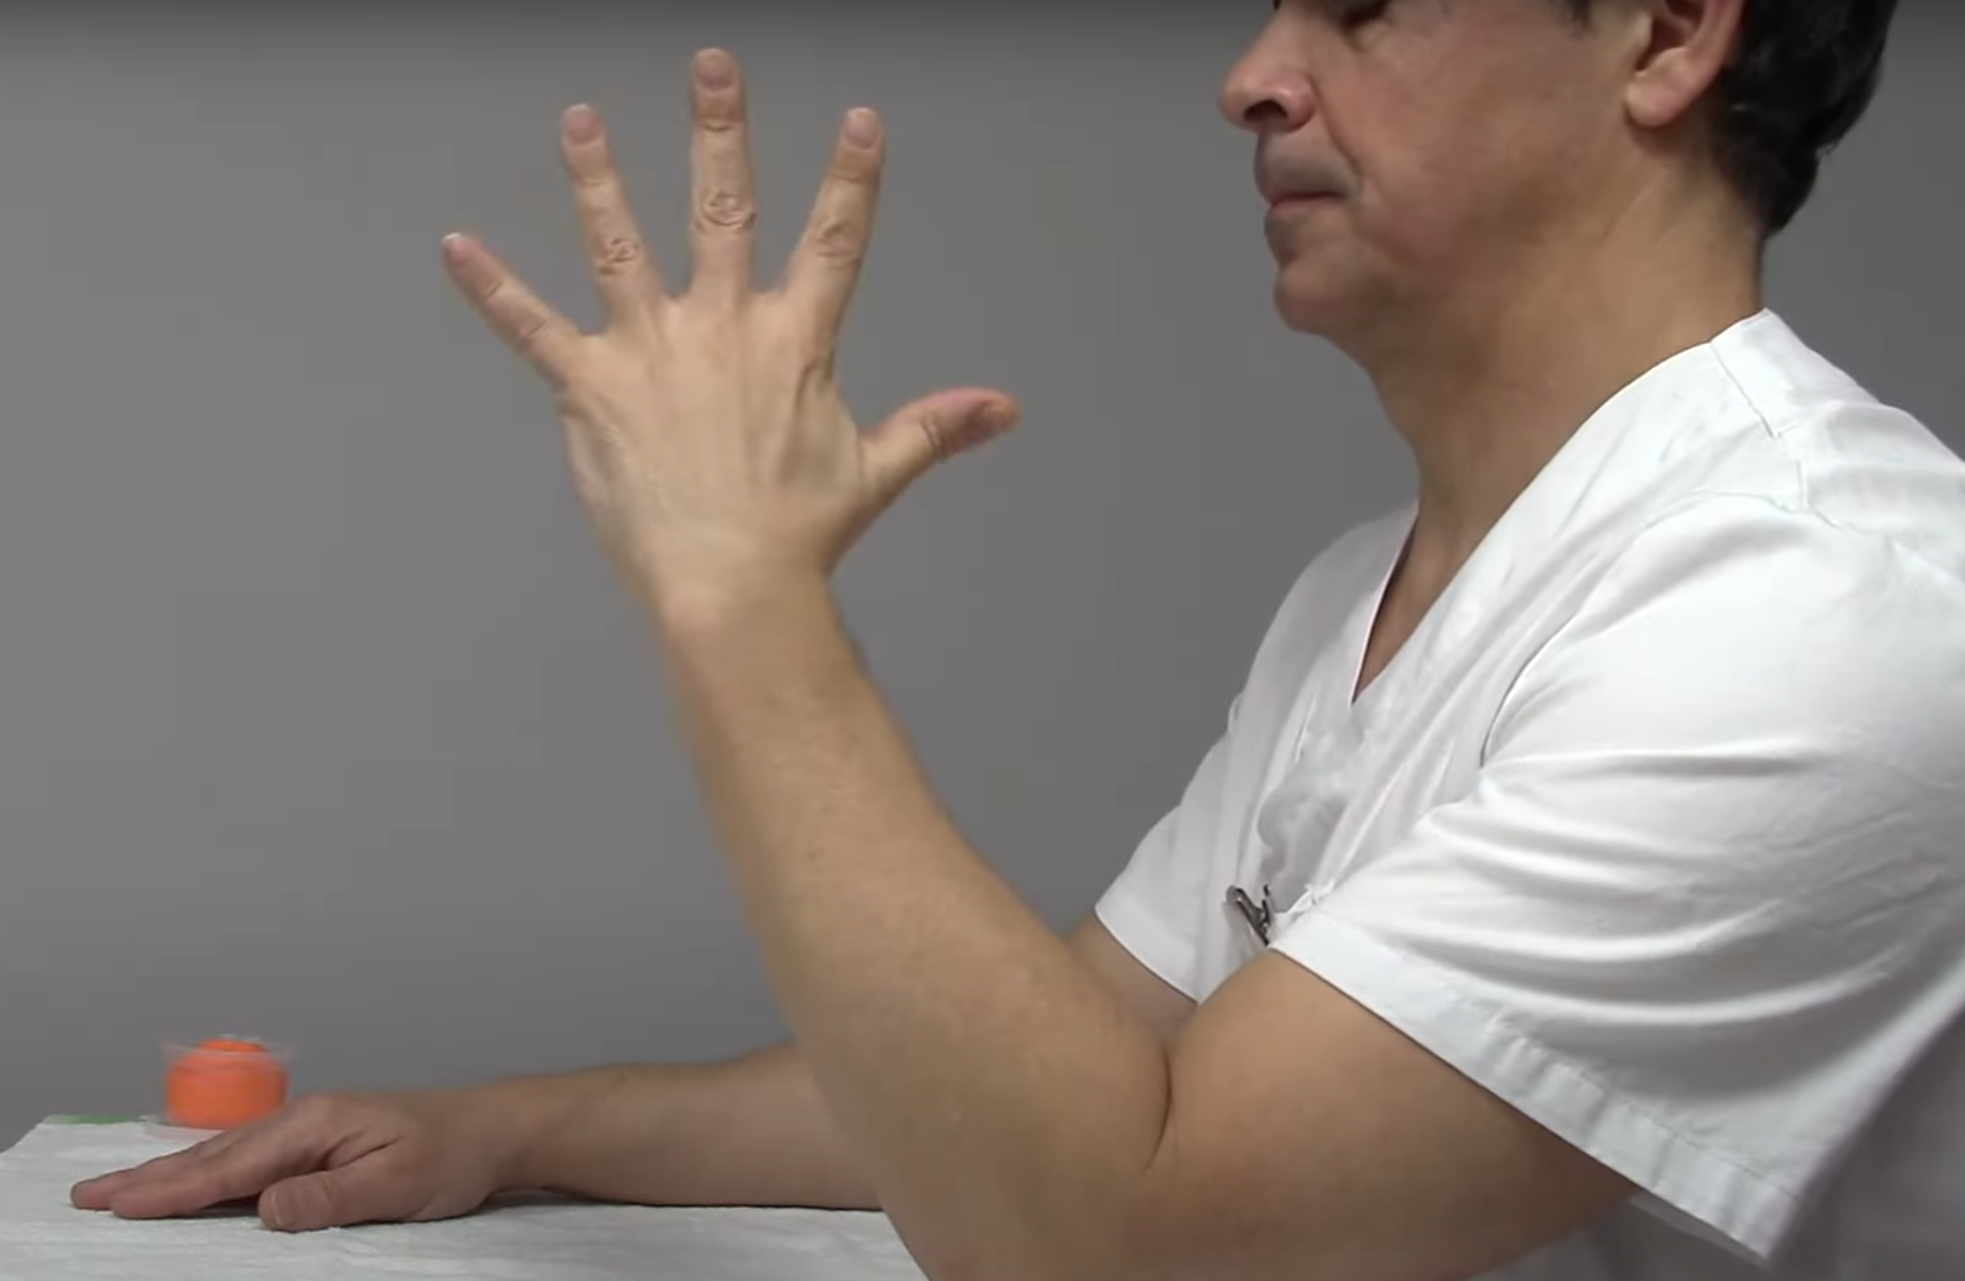
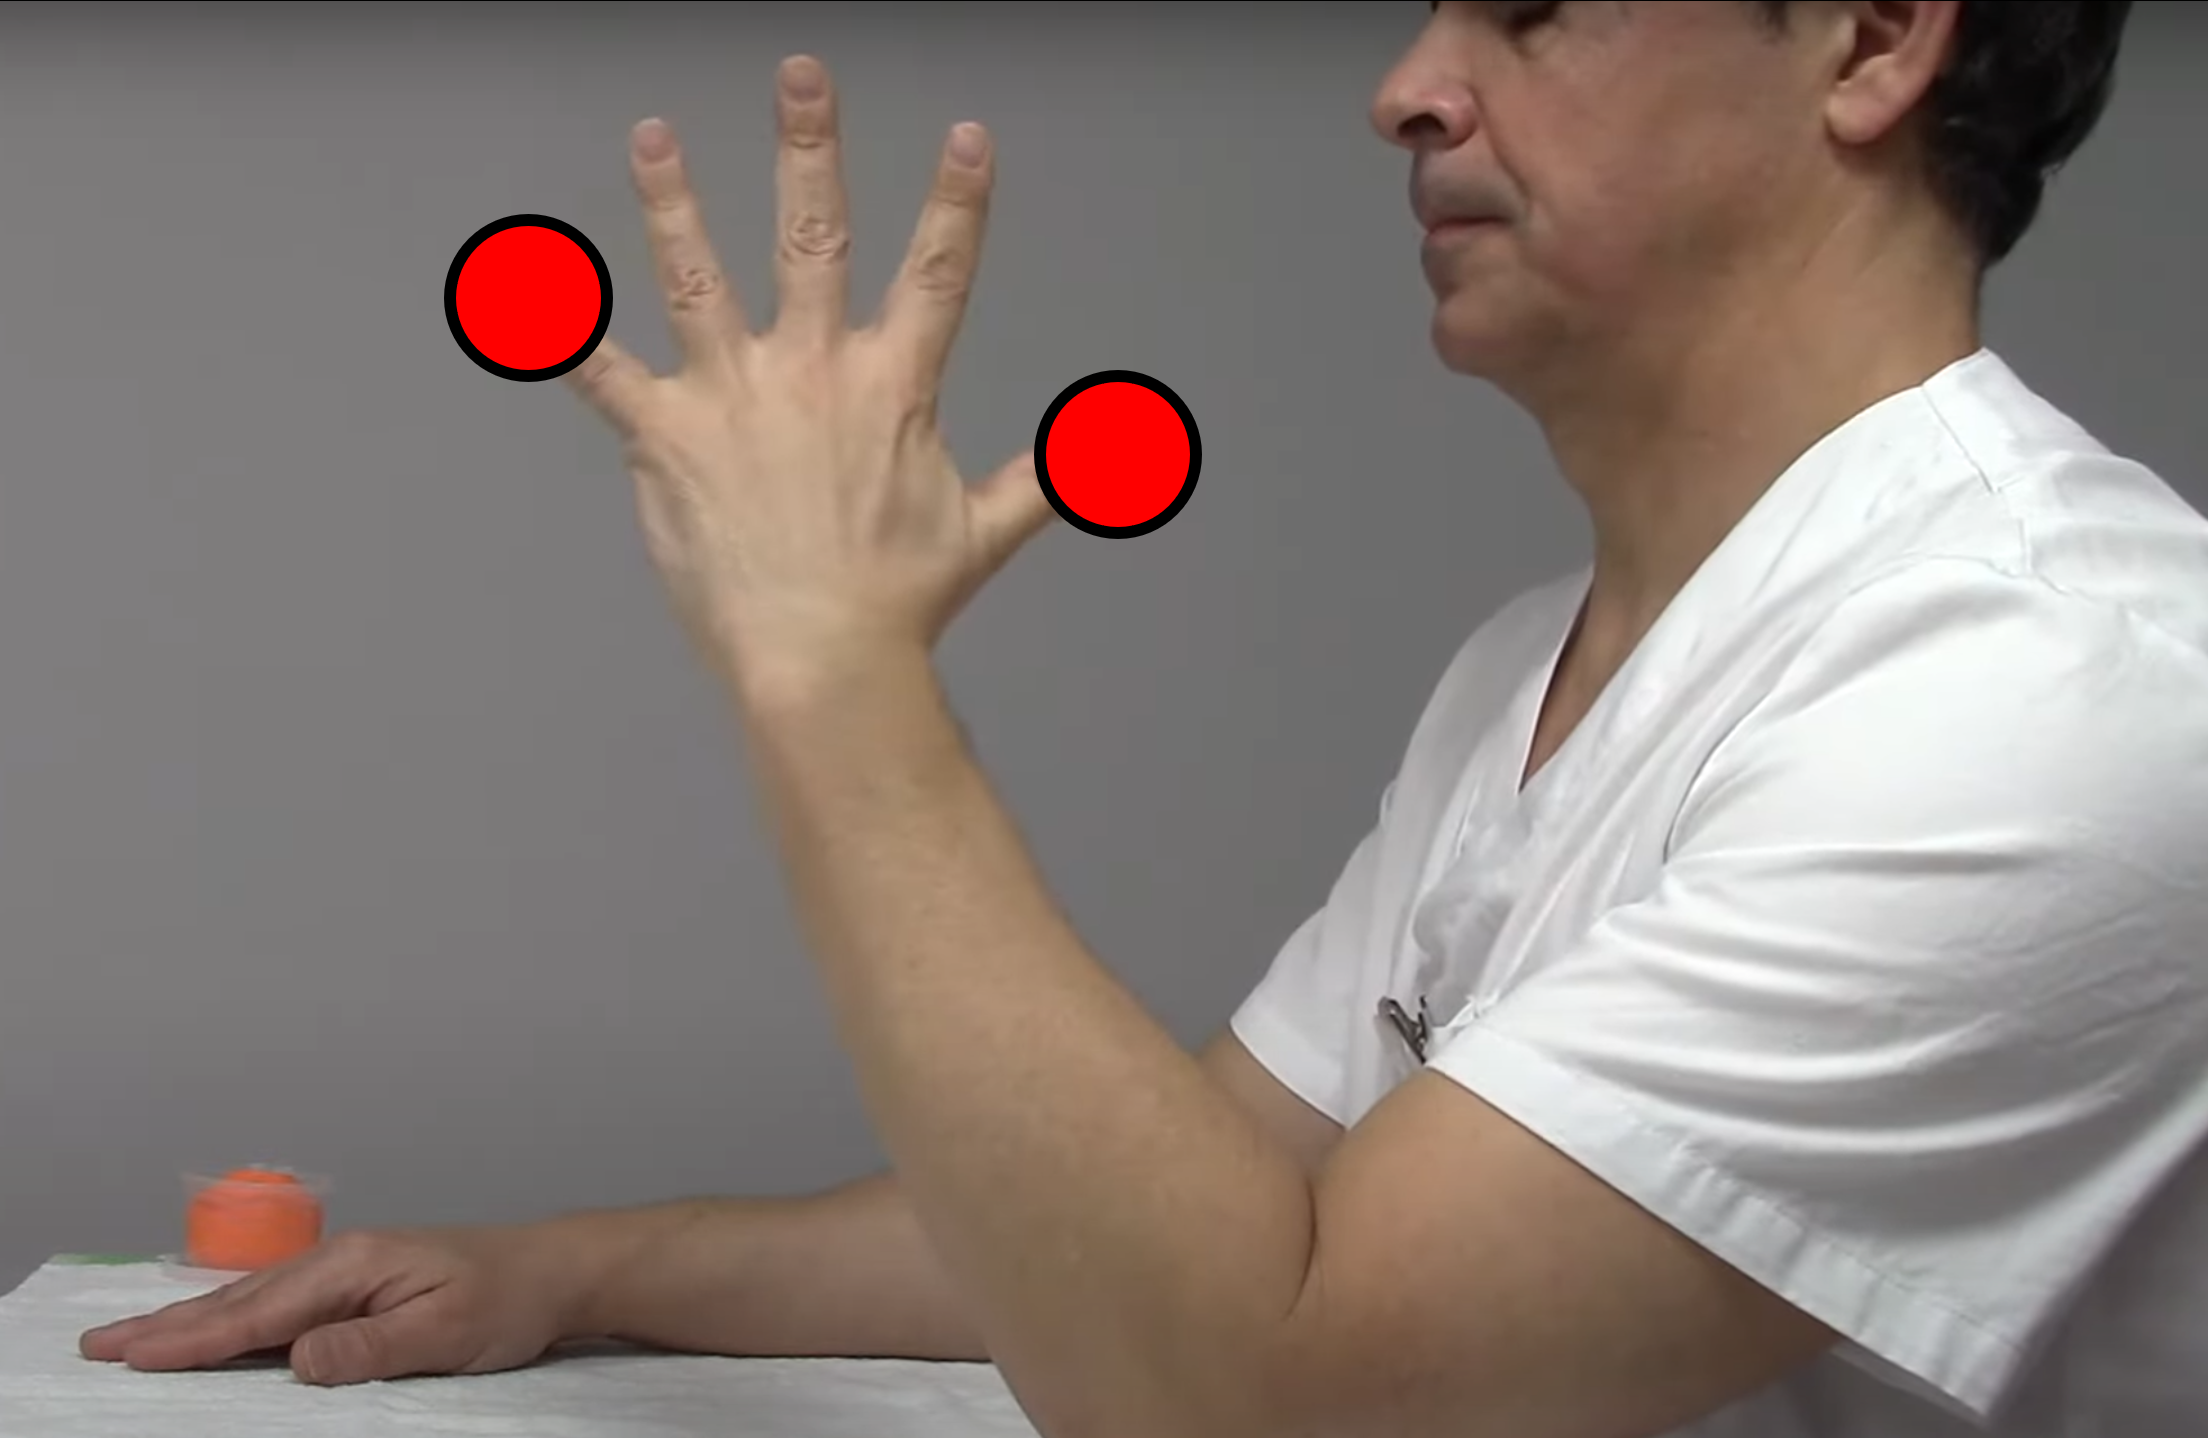
Recorrido de los marcadores

diff --git a/frontend/src/components/page/HandExercise1.tsx b/frontend/src/components/page/HandExercise1.tsx
@@ -20,6 +20,7 @@ function HandExercise1() {
   const [showText, setShowText] = useState(true);
 
   const { red, green, blue } = useSettings();
+  const [showLines, setShowLines] = useState(false);
 
   useEffect(() => {
     const getCamera = async () => {
@@ -134,6 +135,30 @@ function HandExercise1() {
     }
   };
 
+  const handleStep1Click = () => {
+    setShowLines(true);
+
+    // Dibujar las líneas
+    const canvas = drawingCanvasRef.current;
+    if (canvas) {
+      const ctx = canvas.getContext('2d');
+      if (ctx) {
+        ctx.clearRect(0, 0, CANVAS_WIDTH, CANVAS_HEIGHT); // Limpiar canvas
+        ctx.fillStyle = 'rgba(255, 0, 0, 0.5)'; // Color rojo semitransparente
+
+        // Dibujar la primera línea
+        ctx.fillRect(50, 200, CANVAS_WIDTH - 100, 20); // X, Y, ancho, alto
+
+        // Dibujar la segunda línea
+        ctx.fillRect(50, 400, CANVAS_WIDTH - 100, 20); // X, Y, ancho, alto
+      }
+    }
+
+    // Ocultar las líneas después de 3 segundos
+    setTimeout(() => setShowLines(false), 3000);
+  };
+
+
   // Dibuja los frames del video en el canvas y detecta el color
   useEffect(() => {
     const processFrame = () => {
@@ -181,7 +206,7 @@ function HandExercise1() {
         <div className="bg-gray-700 w-1/4 h-[36rem] rounded-lg shadow-lg p-6 flex flex-col">
           <h2 className="text-gray-100 font-bold text-3xl text-center mb-5">P A S O S</h2>
           <div className="grid grid-rows-3 gap-5 flex-grow">
-            <div className="bg-gray-700 rounded-lg overflow-hidden flex items-center justify-center text-white text-center font-bold text-lg transition-all cursor-pointer hover:brightness-75 hover:scale-95 transform duration-300">
+            <div onClick={handleStep1Click} className="bg-gray-700 rounded-lg overflow-hidden flex items-center justify-center text-white text-center font-bold text-lg transition-all cursor-pointer hover:brightness-75 hover:scale-95 transform duration-300">
               <img src={HandStep1} alt="Paso 1" className="w-full h-full object-cover" />
             </div>
             <div className="bg-gray-700 rounded-lg overflow-hidden flex items-center justify-center text-white text-center font-bold text-lg transition-all cursor-pointer hover:brightness-75 hover:scale-95 transform duration-300">
@@ -209,6 +234,7 @@ function HandExercise1() {
             autoPlay
             playsInline
           />
+
           <canvas ref={canvasRef} width={CANVAS_WIDTH} height={CANVAS_HEIGHT} style={{ display: 'none' }} />
 
           <canvas
